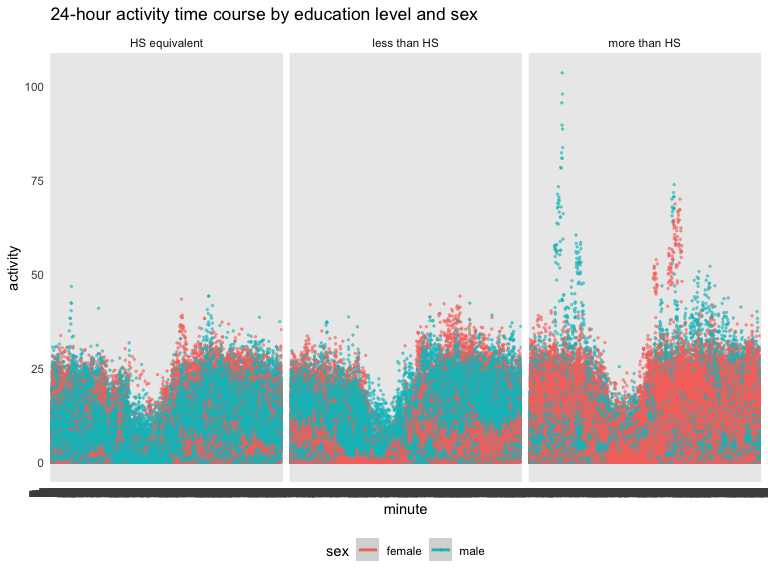
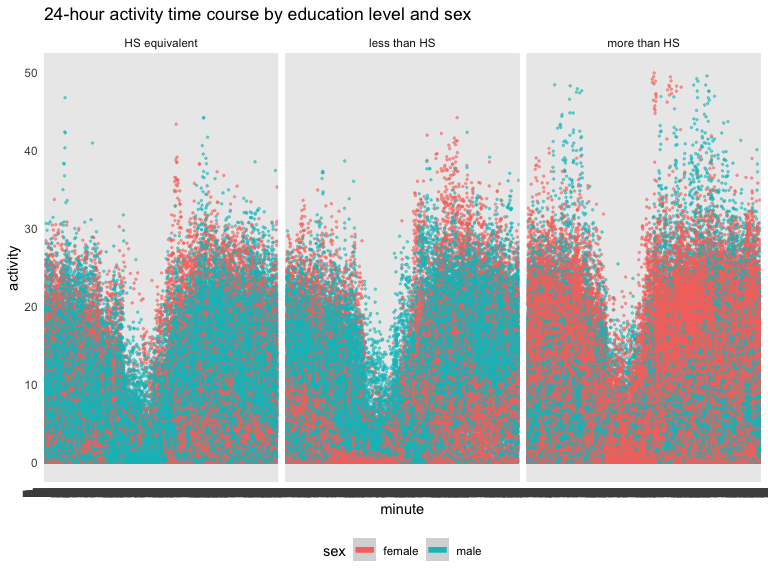
adding inline text for problem 2

diff --git a/p8105_hw3_jer2243.md b/p8105_hw3_jer2243.md
@@ -153,12 +153,12 @@ This dataset contains 10625 rows and 23 columns.
 brfss_2002 <- brfss_smart2010_tidy |>
   filter(year==2002)
 
-result <- brfss_2002 |>
+result1 <- brfss_2002 |>
   group_by(locationabbr) |>
   summarise(unique_locationdesc = n_distinct(locationdesc)) |>
   filter(unique_locationdesc >= 7)
 
-print(result)
+print(result1)
 ```
 
     ## # A tibble: 6 × 2
@@ -175,12 +175,12 @@ print(result)
 brfss_2010 <- brfss_smart2010_tidy |>
   filter(year==2010)
 
-result <- brfss_2010 |>
+result2 <- brfss_2010 |>
   group_by(locationabbr) |>
   summarise(unique_locationdesc = n_distinct(locationdesc)) |>
   filter(unique_locationdesc >= 7)
 
-print(result)
+print(result2)
 ```
 
     ## # A tibble: 14 × 2
@@ -201,9 +201,10 @@ print(result)
     ## 13 TX                            16
     ## 14 WA                            10
 
-In 2002, 6 states were observed at 7 or more locations (CT, FL, MA, NC,
-NJ, PA). In 2010, 14 states were observed at 7 or more locations (CA,
-CO, FL, MA, MD, NC, NE, NJ, NY, OH, PA, SC, TX, WA).
+In 2002, 6 states were observed at 7 or more locations. These included
+CT, FL, MA, NC, NJ, PA. In 2010, 14 states were observed at 7 or more
+locations. These included CA, CO, FL, MA, MD, NC, NE, NJ, NY, OH, PA,
+SC, TX, WA.
 
 ## Construct a dataset limited to “excellent” responses
 
@@ -399,25 +400,30 @@ merged_data_4 = merged_data_3 |>
     )
 
 merged_data_4 |>
-  ggplot(aes(x=minute, y=activity, color=sex)) + geom_point(alpha=0.5, size=0.5) +
-  geom_smooth() + facet_wrap(.~education) +
+  ggplot(aes(x=minute, y=activity, color=sex)) + geom_point(alpha=0.25, size=0.1) + geom_smooth() + facet_wrap(.~education) +
   labs(title = "24-hour activity time course by education level and sex")
 ```
 
     ## `geom_smooth()` using method = 'loess' and formula = 'y ~ x'
 
 <img src="p8105_hw3_jer2243_files/figure-gfm/unnamed-chunk-20-1.png" width="90%" />
-COMMENT
+For all three panels, there was a dip in activity levels during the
+early morning hours, and the highest activity levels were around midday.
+Overall, it appears as though the “more than HS” group had slightly
+higher activity levels compared to the other two groups.
 
 ## Repeat plot above but without outliers where activity \>50
 
 ``` r
 merged_data_4 |>
+  filter(activity < 50) |>
   ggplot(aes(x=minute, y=activity, color=sex)) + geom_point(alpha=0.5, size=0.5) +
-  geom_smooth() + facet_wrap(.~education) +
+  geom_smooth(linewidth = 2) + facet_wrap(.~education) +
   labs(title = "24-hour activity time course by education level and sex")
 ```
 
     ## `geom_smooth()` using method = 'loess' and formula = 'y ~ x'
 
 <img src="p8105_hw3_jer2243_files/figure-gfm/unnamed-chunk-21-1.png" width="90%" />
+Excluding the outliers where activity \> 50 allows to get a slightly
+more useful, zoomed in view of the data.
